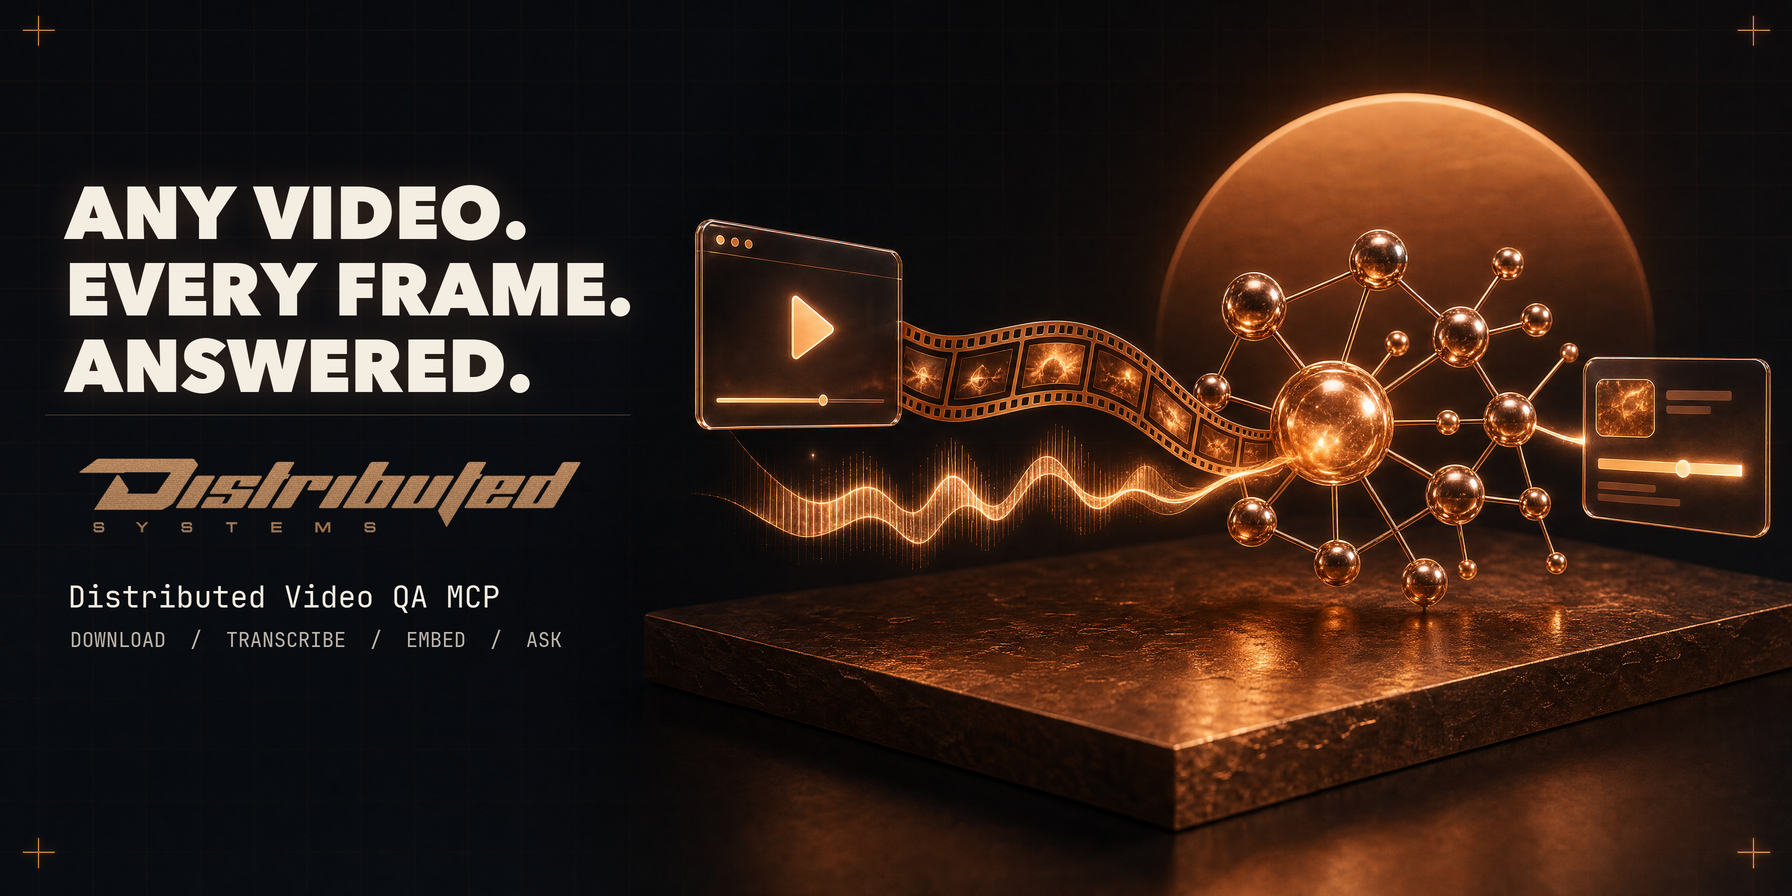
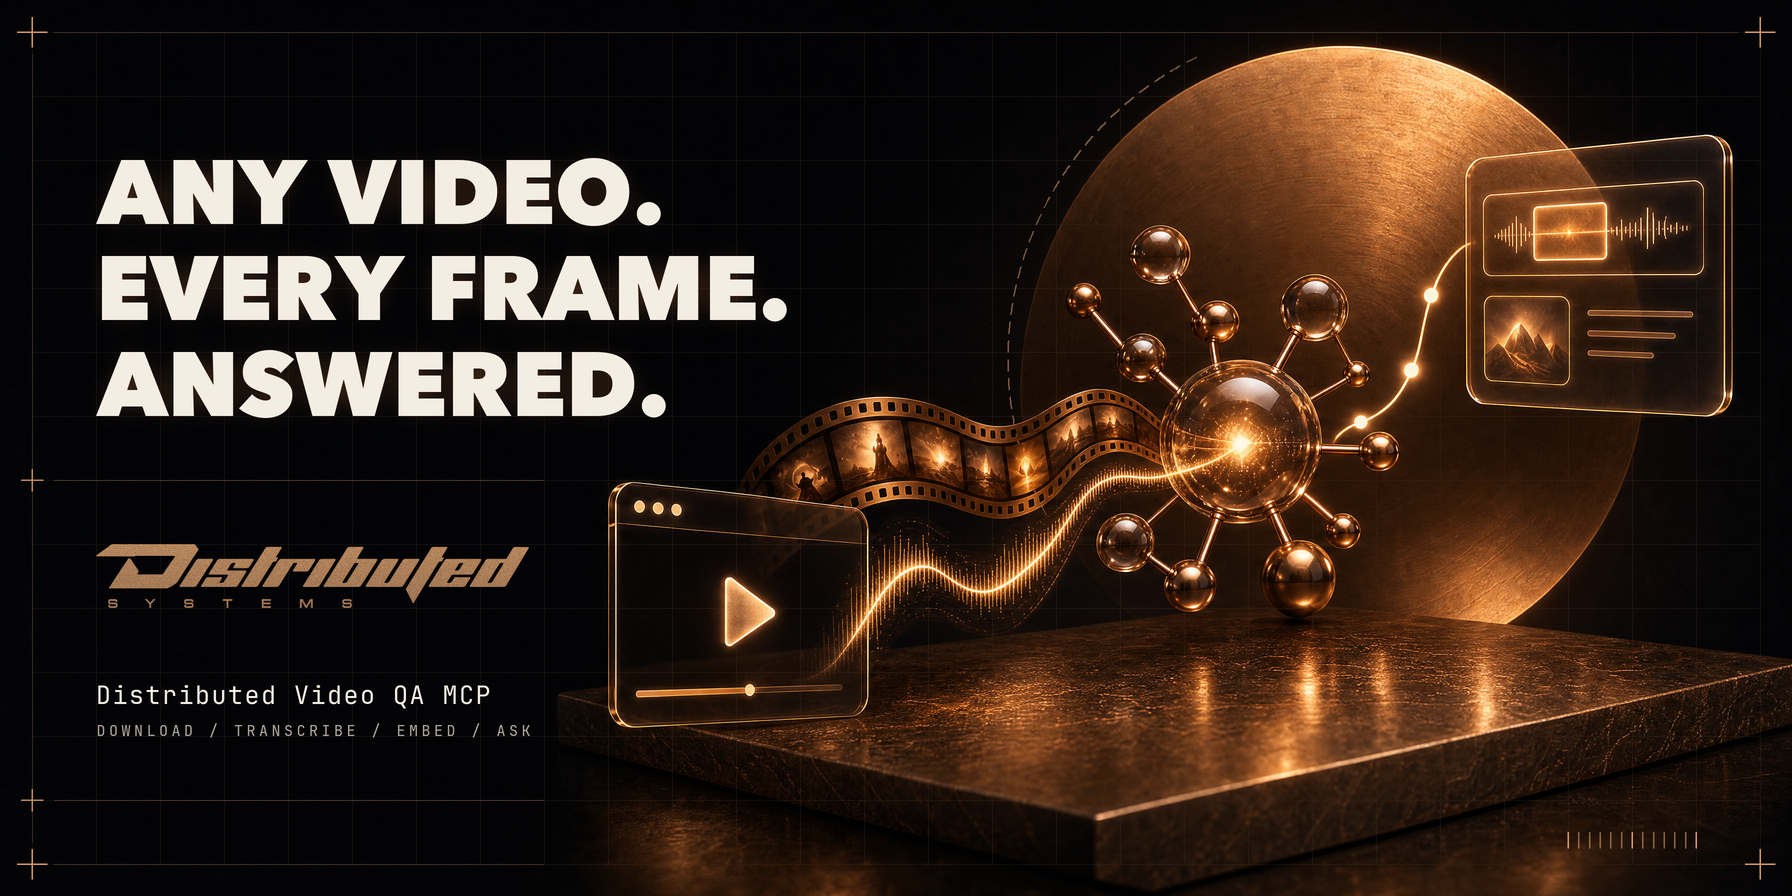
Redesign the README hero on an exact grid, with reproducible sources
Recompose the artwork with the gpt-image-2 edit endpoint so the scene
interleaves with the headline, then lay out every line, crosshair and
baseline on a 128 px grid. Grid, frame and arc pass behind the objects;
the compositor checks type clearance on every run. Sources and spec in
docs/assets/hero-src and docs/assets/README.md.

diff --git a/docs/assets/hero-src/compose.py b/docs/assets/hero-src/compose.py
@@ -1,0 +1,163 @@
+"""Hero compositor. Everything drawn sits on one square grid: pitch P, margin M, 27 x 13 cells at 3584 x 1792."""
+import sys, math
+from pathlib import Path
+import numpy as np
+from PIL import Image, ImageDraw, ImageFont, ImageFilter
+
+ART, MARK, OUT = map(Path, sys.argv[1:4])   # e.g. hero-src/art.jpg ../distributed-wordmark.png out.png
+DEBUG = "--debug" in sys.argv
+W, H = 3584, 1792
+P, M = 128, 64                      # (W - 2M) / P = 27, (H - 2M) / P = 13
+COL = lambda k: M + k * P
+ROW = lambda k: M + k * P
+SCALE = 1.0                         # scene scale, anchored bottom-right
+DISC = (2689, 719, 627)             # fitted to the disc's top arc (median residual 0.44 px)
+COPPER = (226, 166, 116); CREAM = (244, 237, 226); GREY = (176, 168, 158); RULE = (74, 56, 44)
+
+# ------------------------------------------------------------------ base: scaled scene + extended background
+src = Image.open(ART).convert("RGB")
+sw, sh = int(W * SCALE), int(H * SCALE)
+scene = src.resize((sw, sh), Image.LANCZOS)
+CONTENT_RIGHT = 3465                                                 # answer card's right edge, 55 px inside the frame
+ox, oy = 0, 0                                                        # the recomposed art is used at full size
+arr = np.asarray(scene).astype(np.float32)
+canvas = np.pad(arr, ((oy, H - oy - sh), (ox, W - ox - sw), (0, 0)), mode="edge")   # extend the flat background on every side
+blurred = np.asarray(Image.fromarray(canvas.astype(np.uint8)).filter(ImageFilter.GaussianBlur(40))).astype(np.float32)
+yy, xx = np.mgrid[0:H, 0:W]
+feather = 160.0
+wx = np.ones((H, W)); wy = np.ones((H, W))
+w = (wx * wy)[..., None]
+base = canvas * w + blurred * (1 - w)
+lum = base.mean(axis=2)
+def S(x, y):  # map a source-art coordinate into the canvas
+    return ox + x * SCALE, oy + y * SCALE
+
+# ------------------------------------------------------------------ grid, drawn only over dark background (passes behind objects)
+grid = Image.new("L", (W, H), 0); g = ImageDraw.Draw(grid)
+for k in range(28): g.line([(COL(k), ROW(0)), (COL(k), ROW(13))], fill=255, width=2)
+for k in range(14): g.line([(COL(0), ROW(k)), (COL(27), ROW(k))], fill=255, width=2)
+behind = np.clip((34.0 - lum) / 18.0, 0, 1)                         # 1 on background, 0 on objects
+ga = np.asarray(grid).astype(np.float32) / 255.0 * 0.075 * behind
+base = base * (1 - ga[..., None]) + np.array(COPPER, np.float32) * ga[..., None]
+img = Image.fromarray(np.clip(base, 0, 255).astype(np.uint8))
+
+over = Image.new("RGBA", (W, H), (0, 0, 0, 0)); d = ImageDraw.Draw(over)
+
+def cross(x, y, arm=30, width=3, alpha=230):
+    d.line([(x - arm, y), (x + arm, y)], fill=(*COPPER, alpha), width=width)
+    d.line([(x, y - arm), (x, y + arm)], fill=(*COPPER, alpha), width=width)
+
+frame = Image.new("RGBA", (W, H), (0, 0, 0, 0)); fd = ImageDraw.Draw(frame)
+
+def hline(y, x0, x1, alpha=255, color=RULE, width=2):
+    fd.line([(x0, y), (x1, y)], fill=(*color, alpha), width=width)   # frame layer: masked behind objects
+
+# frame: top and bottom rules between the corner marks, left rule down the margin
+ARM = 30
+hline(ROW(0), COL(0) + ARM + 14, COL(27) - ARM - 14, alpha=200)
+# The plinth breaks the bottom of the frame, so the bottom line stops one cell before the first object on that row.
+band = lum[ROW(13) - 10:ROW(13) + 10]
+first_obj = int(np.argmax((band > 18).any(axis=0)))
+BOTTOM_END = COL(int((first_obj - P - M) // P))
+hline(ROW(13), COL(0) + ARM + 14, BOTTOM_END, alpha=200)
+fd.line([(COL(0), ROW(0) + ARM + 14), (COL(0), ROW(13) - ARM - 14)], fill=(*RULE, 170), width=2)
+for x, y in [(COL(0), ROW(0)), (COL(27), ROW(0)), (COL(0), ROW(13)), (COL(27), ROW(13))]:
+    cross(x, y)
+
+# ------------------------------------------------------------------ typography (cap height = 1 cell, line pitch = 1.5 cells)
+AV = "/System/Library/Fonts/Avenir Next.ttc"
+heavy = next(i for i in range(16) if ImageFont.truetype(AV, 10, index=i).getname()[1] == "Heavy")
+def capheight(font):
+    box = font.getbbox("H"); return box[3] - box[1]
+size = 100
+while capheight(ImageFont.truetype(AV, size + 1, index=heavy)) <= P: size += 1
+head = ImageFont.truetype(AV, size, index=heavy)
+lines = ["ANY VIDEO.", "EVERY FRAME.", "ANSWERED."]
+X0 = COL(1)
+baselines = [ROW(3), ROW(4) + P // 2, ROW(6)]                        # first and last on grid rows
+txt = Image.new("RGBA", (W, H), (0, 0, 0, 0)); t = ImageDraw.Draw(txt)
+glow = Image.new("RGBA", (W, H), (0, 0, 0, 0)); gd = ImageDraw.Draw(glow)
+for line, base_y in zip(lines, baselines):
+    left_bearing = head.getbbox(line)[0]
+    t.text((X0 - left_bearing, base_y), line, font=head, fill=(*CREAM, 255), anchor="ls")
+    gd.text((X0 - left_bearing, base_y), line, font=head, fill=(150, 90, 45, 120), anchor="ls")
+text_right = max(X0 + head.getlength(l) for l in lines)
+
+# rule under the headline (row 7), crosshair where it meets the left frame
+hline(ROW(7), COL(0) + ARM + 14, COL(8), alpha=255)
+cross(COL(0), ROW(7), arm=22, width=3, alpha=200)
+
+# wordmark: 1.5 cells tall, top at row 7.5, bottom on row 9
+mark = Image.open(MARK).convert("RGBA")
+alpha = np.asarray(mark)[..., 3]
+rows_on = np.nonzero(alpha.max(axis=1) > 40)[0]; cols_on = np.nonzero(alpha.max(axis=0) > 40)[0]
+mark = mark.crop((int(cols_on.min()), int(rows_on.min()), int(cols_on.max()) + 1, int(rows_on.max()) + 1))
+mh = P; mw = round(mark.width * mh / mark.height)
+mark = mark.resize((mw, mh), Image.LANCZOS)
+MARK_TOP = ROW(8)                   # visible letters span exactly row 8 to row 9
+
+# mono sublines, letter-spaced, baselines on row 10 and 10.75
+MONO = next(p for p in ["/Users/arthurcolle/Library/Fonts/JetBrainsMonoNerdFontMono-Regular.ttf",
+                        "/Library/Fonts/JetBrainsMonoNerdFontMono-Regular.ttf"] if Path(p).exists())
+def spaced(draw, xy, text, font, fill, tracking):
+    x, y = xy
+    for ch in text:
+        draw.text((x, y), ch, font=font, fill=fill, anchor="ls")
+        x += font.getlength(ch) + tracking
+    return x
+m1 = ImageFont.truetype(MONO, 50); m2 = ImageFont.truetype(MONO, 30)
+MONO1 = ROW(10) + P // 2            # row 10.5
+MONO2 = ROW(11)                     # row 11
+x_end1 = spaced(t, (X0, MONO1), "Distributed Video QA MCP", m1, (*CREAM, 255), 3)
+x_end2 = spaced(t, (X0 + 1, MONO2), "DOWNLOAD / TRANSCRIBE / EMBED / ASK", m2, (*GREY, 255), 7)
+
+# bottom rule (row 12) with crosshair on the frame
+hline(ROW(12), COL(0) + ARM + 14, COL(8), alpha=255)
+cross(COL(0), ROW(12), arm=22, width=3, alpha=200)
+
+# ------------------------------------------------------------------ details: dashed arc concentric with the disc, tick strip
+cx, cy = S(DISC[0], DISC[1]); r = DISC[2] * SCALE + 46
+arc = Image.new("RGBA", (W, H), (0, 0, 0, 0)); ad = ImageDraw.Draw(arc)
+for a0 in np.arange(116.0, 206, 3.2):            # upper-left quadrant only; dashes 2 degrees long
+    pts = [(cx + r * math.cos(math.radians(a)), cy - r * math.sin(math.radians(a))) for a in np.linspace(a0, a0 + 2.0, 6)]
+    ad.line(pts, fill=(*COPPER, 130), width=3)
+arc_np = np.asarray(arc).copy()
+arc_np[..., 3] = (arc_np[..., 3].astype(np.float32) * behind).astype(np.uint8)   # passes behind objects
+arc = Image.fromarray(arc_np)
+tick_y0, tick_y1 = ROW(12) + P // 2, ROW(12) + 3 * P // 4
+for i in range(13):                       # 13 ticks, 1/6 cell apart, from column 24 to column 26
+    x = round(COL(24) + i * P / 6)
+    d.line([(x, tick_y0), (x, tick_y1)], fill=(*COPPER, 230 if i % 6 == 0 else 140), width=3)
+
+if DEBUG:
+    for k in range(28): d.line([(COL(k), 0), (COL(k), H)], fill=(0, 255, 255, 60), width=1)
+    for k in range(14): d.line([(0, ROW(k)), (W, ROW(k))], fill=(0, 255, 255, 60), width=1)
+
+# ------------------------------------------------------------------ composite
+img = img.convert("RGBA")
+img = Image.alpha_composite(img, glow.filter(ImageFilter.GaussianBlur(26)))
+img = Image.alpha_composite(img, arc)
+frame_np = np.asarray(frame).copy()
+frame_np[..., 3] = (frame_np[..., 3].astype(np.float32) * behind).astype(np.uint8)
+img = Image.alpha_composite(img, Image.fromarray(frame_np))
+img = Image.alpha_composite(img, over)
+img = Image.alpha_composite(img, txt)
+img.paste(mark, (X0, MARK_TOP), mark)
+ink = np.asarray(txt)[..., 3] > 30
+ink[MARK_TOP:MARK_TOP + mh, X0:X0 + mw] |= np.asarray(mark)[..., 3] > 30
+ink_d = np.asarray(Image.fromarray((ink * 255).astype(np.uint8)).filter(ImageFilter.MaxFilter(97))) > 0  # 48 px halo
+objects = lum > 26
+clash = int((ink_d & objects).sum())
+ys, xs = np.nonzero(ink_d & objects)
+print(f"collision check: {clash} artwork pixels inside the 48 px halo of the type"
+      + (f" (x {xs.min()}..{xs.max()}, y {ys.min()}..{ys.max()})" if clash else ""))
+img = img.convert("RGB")
+img.save(OUT.with_suffix(".full.png"))
+img.resize((W // 2, H // 2), Image.LANCZOS).save(OUT, optimize=True)
+print(f"bottom frame line ends at {BOTTOM_END} (first object on that row at x {first_obj})")
+print(f"answer card right edge {CONTENT_RIGHT} (frame column {COL(27)}, clearance {COL(27) - CONTENT_RIGHT})")
+cap1 = MONO1 - capheight(m1)
+print(f"rhythm: rule7 {ROW(7)} -> mark top {MARK_TOP} (gap {MARK_TOP - ROW(7)}), mark bottom {MARK_TOP + mh}, "
+      f"mono1 cap top {cap1} (gap {cap1 - MARK_TOP - mh}), mono2 baseline {MONO2} -> rule12 {ROW(12)} (gap {ROW(12) - MONO2})")
+print(f"headline {size}px (cap {capheight(head)}), right edge {text_right:.0f}; mono ends {x_end1:.0f}/{x_end2:.0f}; "
+      f"arc r {r:.0f} about ({cx:.0f},{cy:.0f})")

diff --git a/docs/assets/hero-src/edit.py b/docs/assets/hero-src/edit.py
@@ -1,0 +1,21 @@
+import base64, os, sys, time, httpx
+src, out_prefix, n = sys.argv[1], sys.argv[2], int(sys.argv[3])
+prompt = open(sys.argv[4]).read()
+t = time.time()
+with open(src, "rb") as f:
+    r = httpx.post(
+        "https://api.openai.com/v1/images/edits",
+        headers={"Authorization": f"Bearer {os.environ['OPENAI_API_KEY']}"},
+        data={"model": "gpt-image-2", "prompt": prompt, "size": "3584x1792", "quality": "high", "n": str(n)},
+        files={"image[]": ("art.png", f, "image/png")},
+        timeout=600,
+    )
+print("status", r.status_code, f"{time.time() - t:.0f}s")
+body = r.json()
+if r.status_code != 200:
+    print(body); sys.exit(1)
+for i, item in enumerate(body["data"], 1):
+    path = f"{out_prefix}_{i}.png"
+    open(path, "wb").write(base64.b64decode(item["b64_json"]))
+    print("saved", path)
+print("usage", body.get("usage"))
